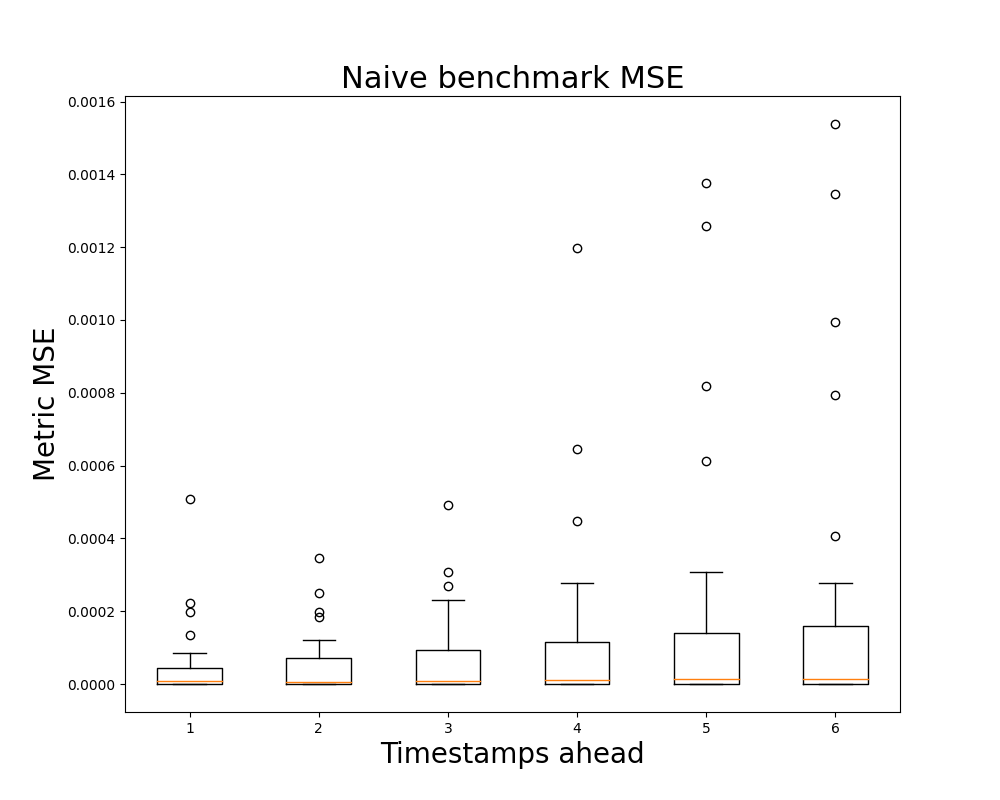
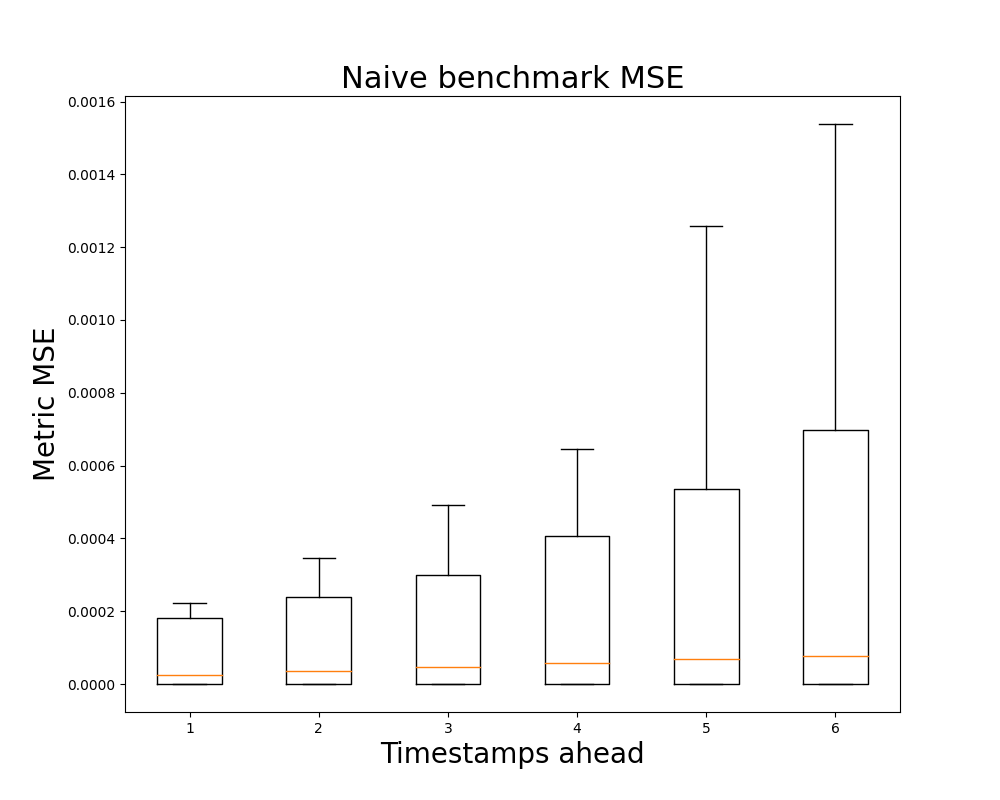
refactor nb results

diff --git a/generalization_tests/nb/results/read_nb_results.py b/generalization_tests/nb/results/read_nb_results.py
@@ -4,8 +4,7 @@ import numpy as np
 from matplotlib import pyplot as plt
 
 
-def remove_outliers(data):
-    cleaned_data = []
+def calculate_outliers(data):
     for inner_list in data:
         data_arr = np.array(inner_list, dtype=np.float64)
 
@@ -14,21 +13,17 @@ def remove_outliers(data):
 
         IQR = Q3 - Q1
 
-        lower_bound = Q1 - 2 * IQR
-        upper_bound = Q3 + 2 * IQR
+        lower_bound = Q1 - 1.5 * IQR
+        upper_bound = Q3 + 1.5  * IQR
         print(len(data_arr))
         print(len([x for x in data_arr if lower_bound <= x <= upper_bound]))
-        cleaned_data.append([x for x in data_arr if lower_bound <= x <= upper_bound])
-
-    return cleaned_data
 
 
 def create_boxplot(loss, name, timestamp, dir):
     print(dir + " " + name)
-    loss = remove_outliers(loss)
+    calculate_outliers(loss)
     fig, ax = plt.subplots(nrows=1, ncols=1, figsize=(10, 8))
-
-    plt.boxplot(loss)
+    plt.boxplot(loss, showfliers=False)
     plt.xlabel('Timestamps ahead', fontsize=20)
     plt.ylabel('Metric ' + name, fontsize=20)
     plt.title('Naive benchmark ' + name, fontsize=22)
